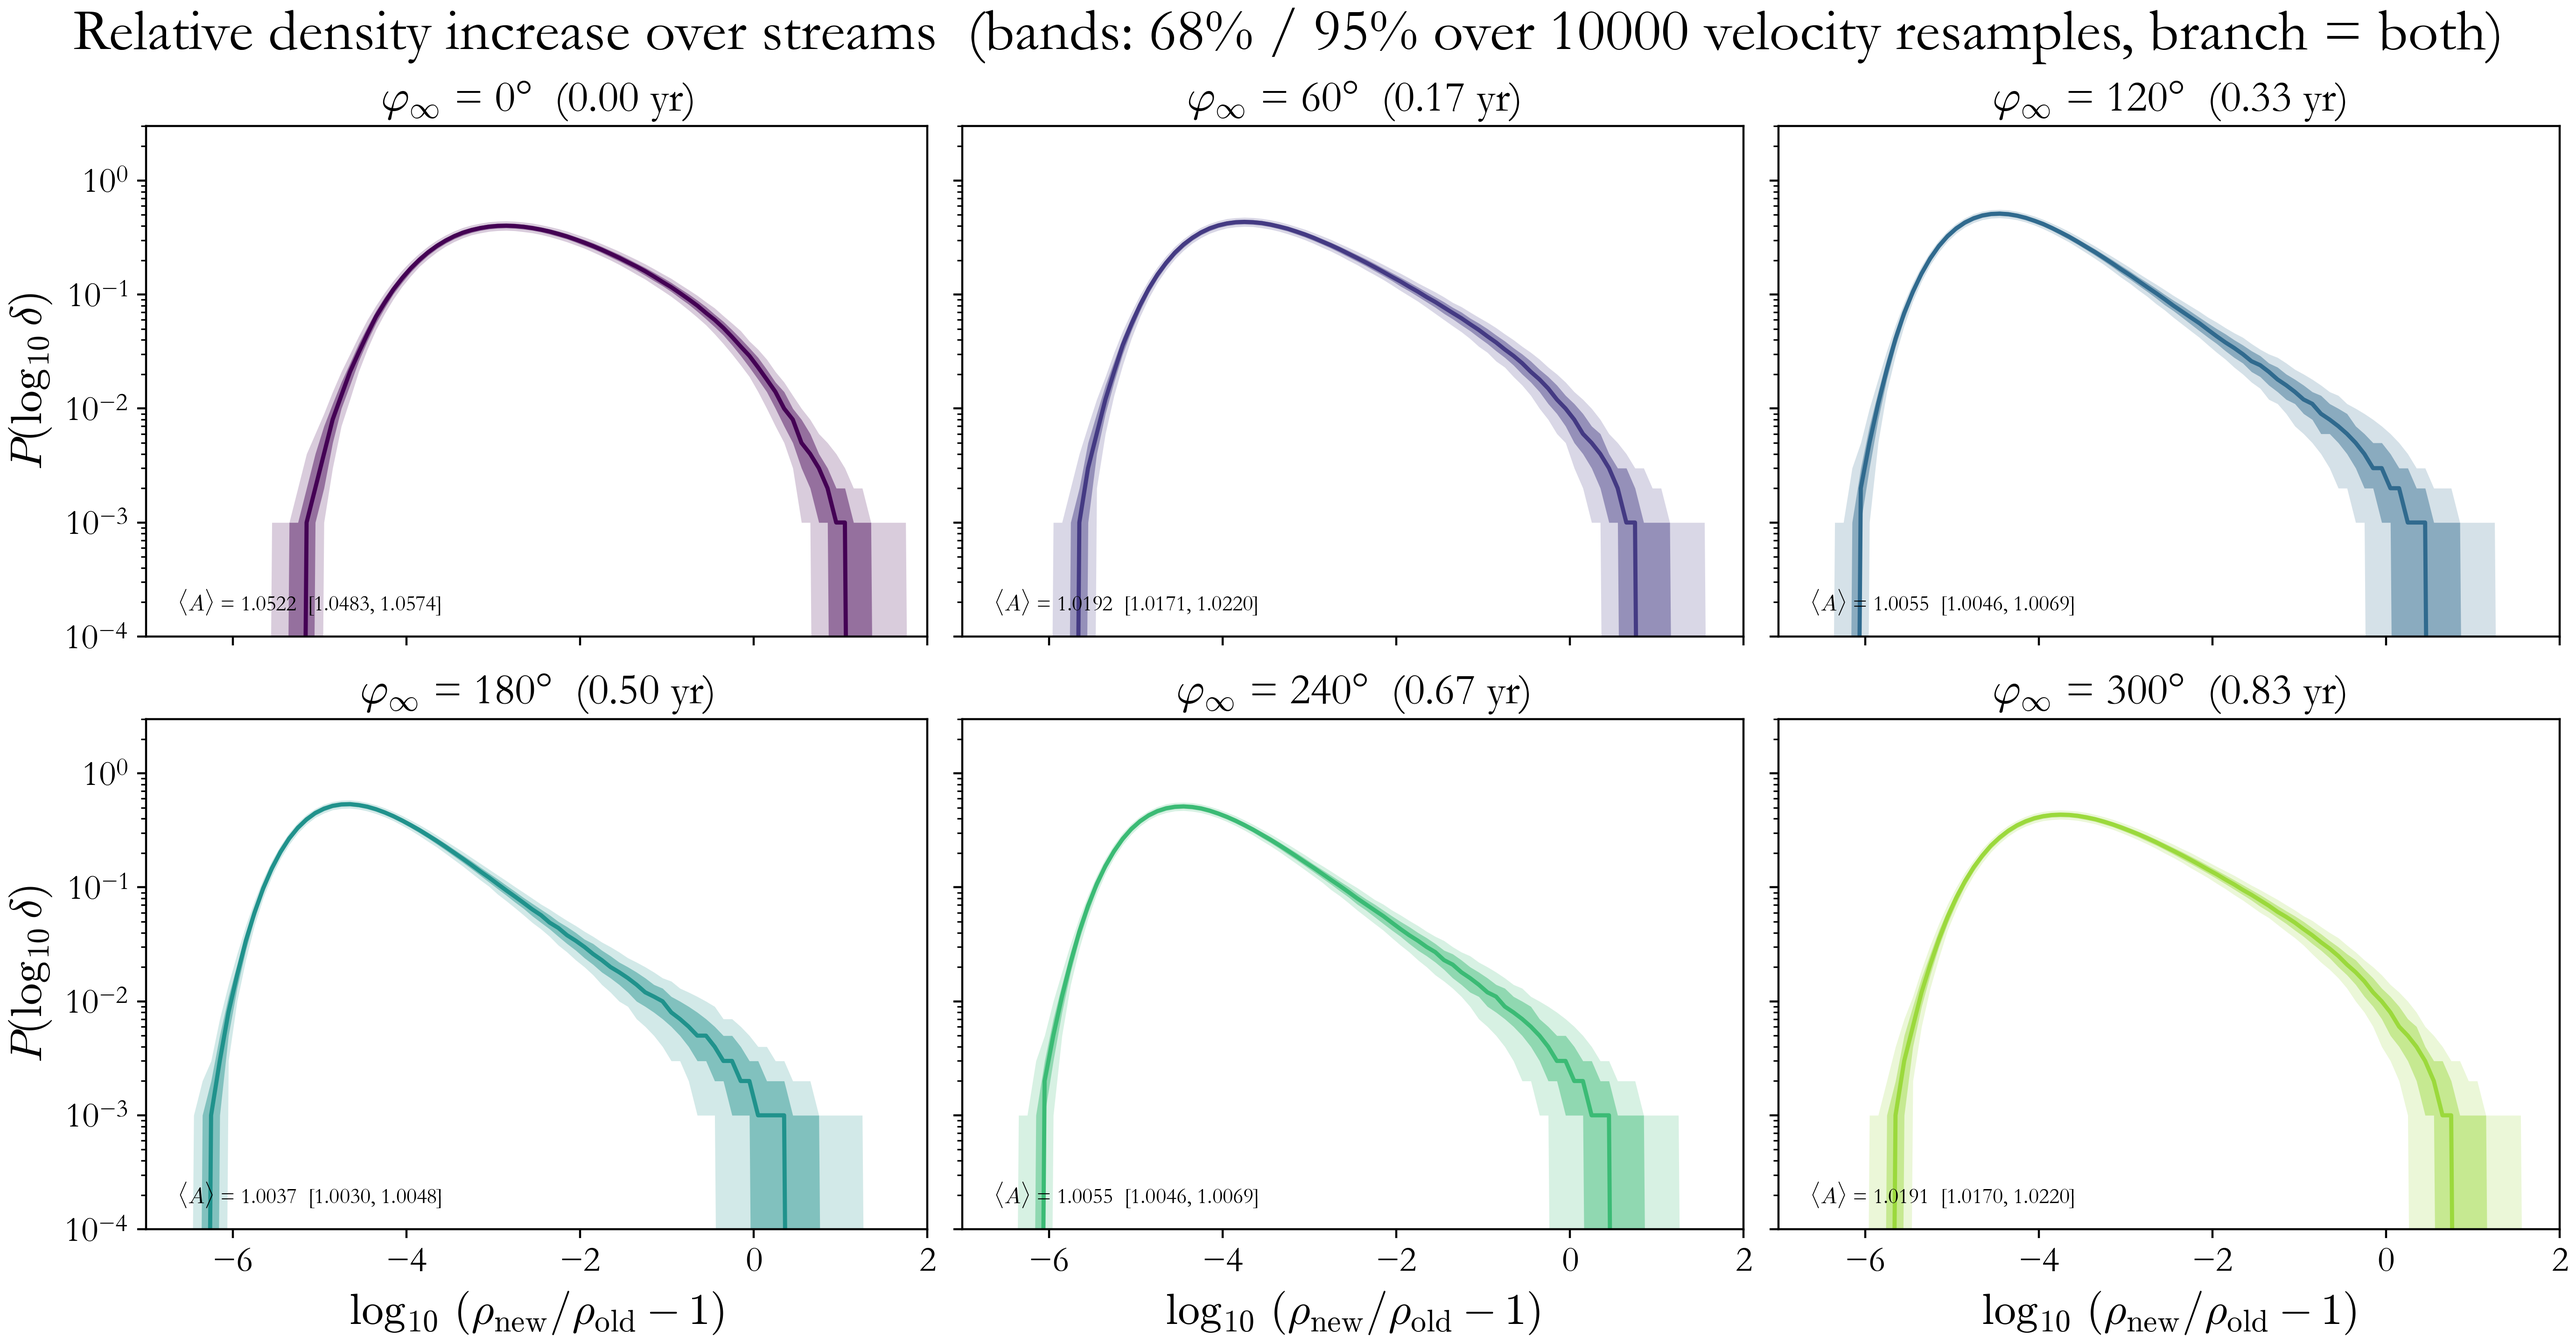
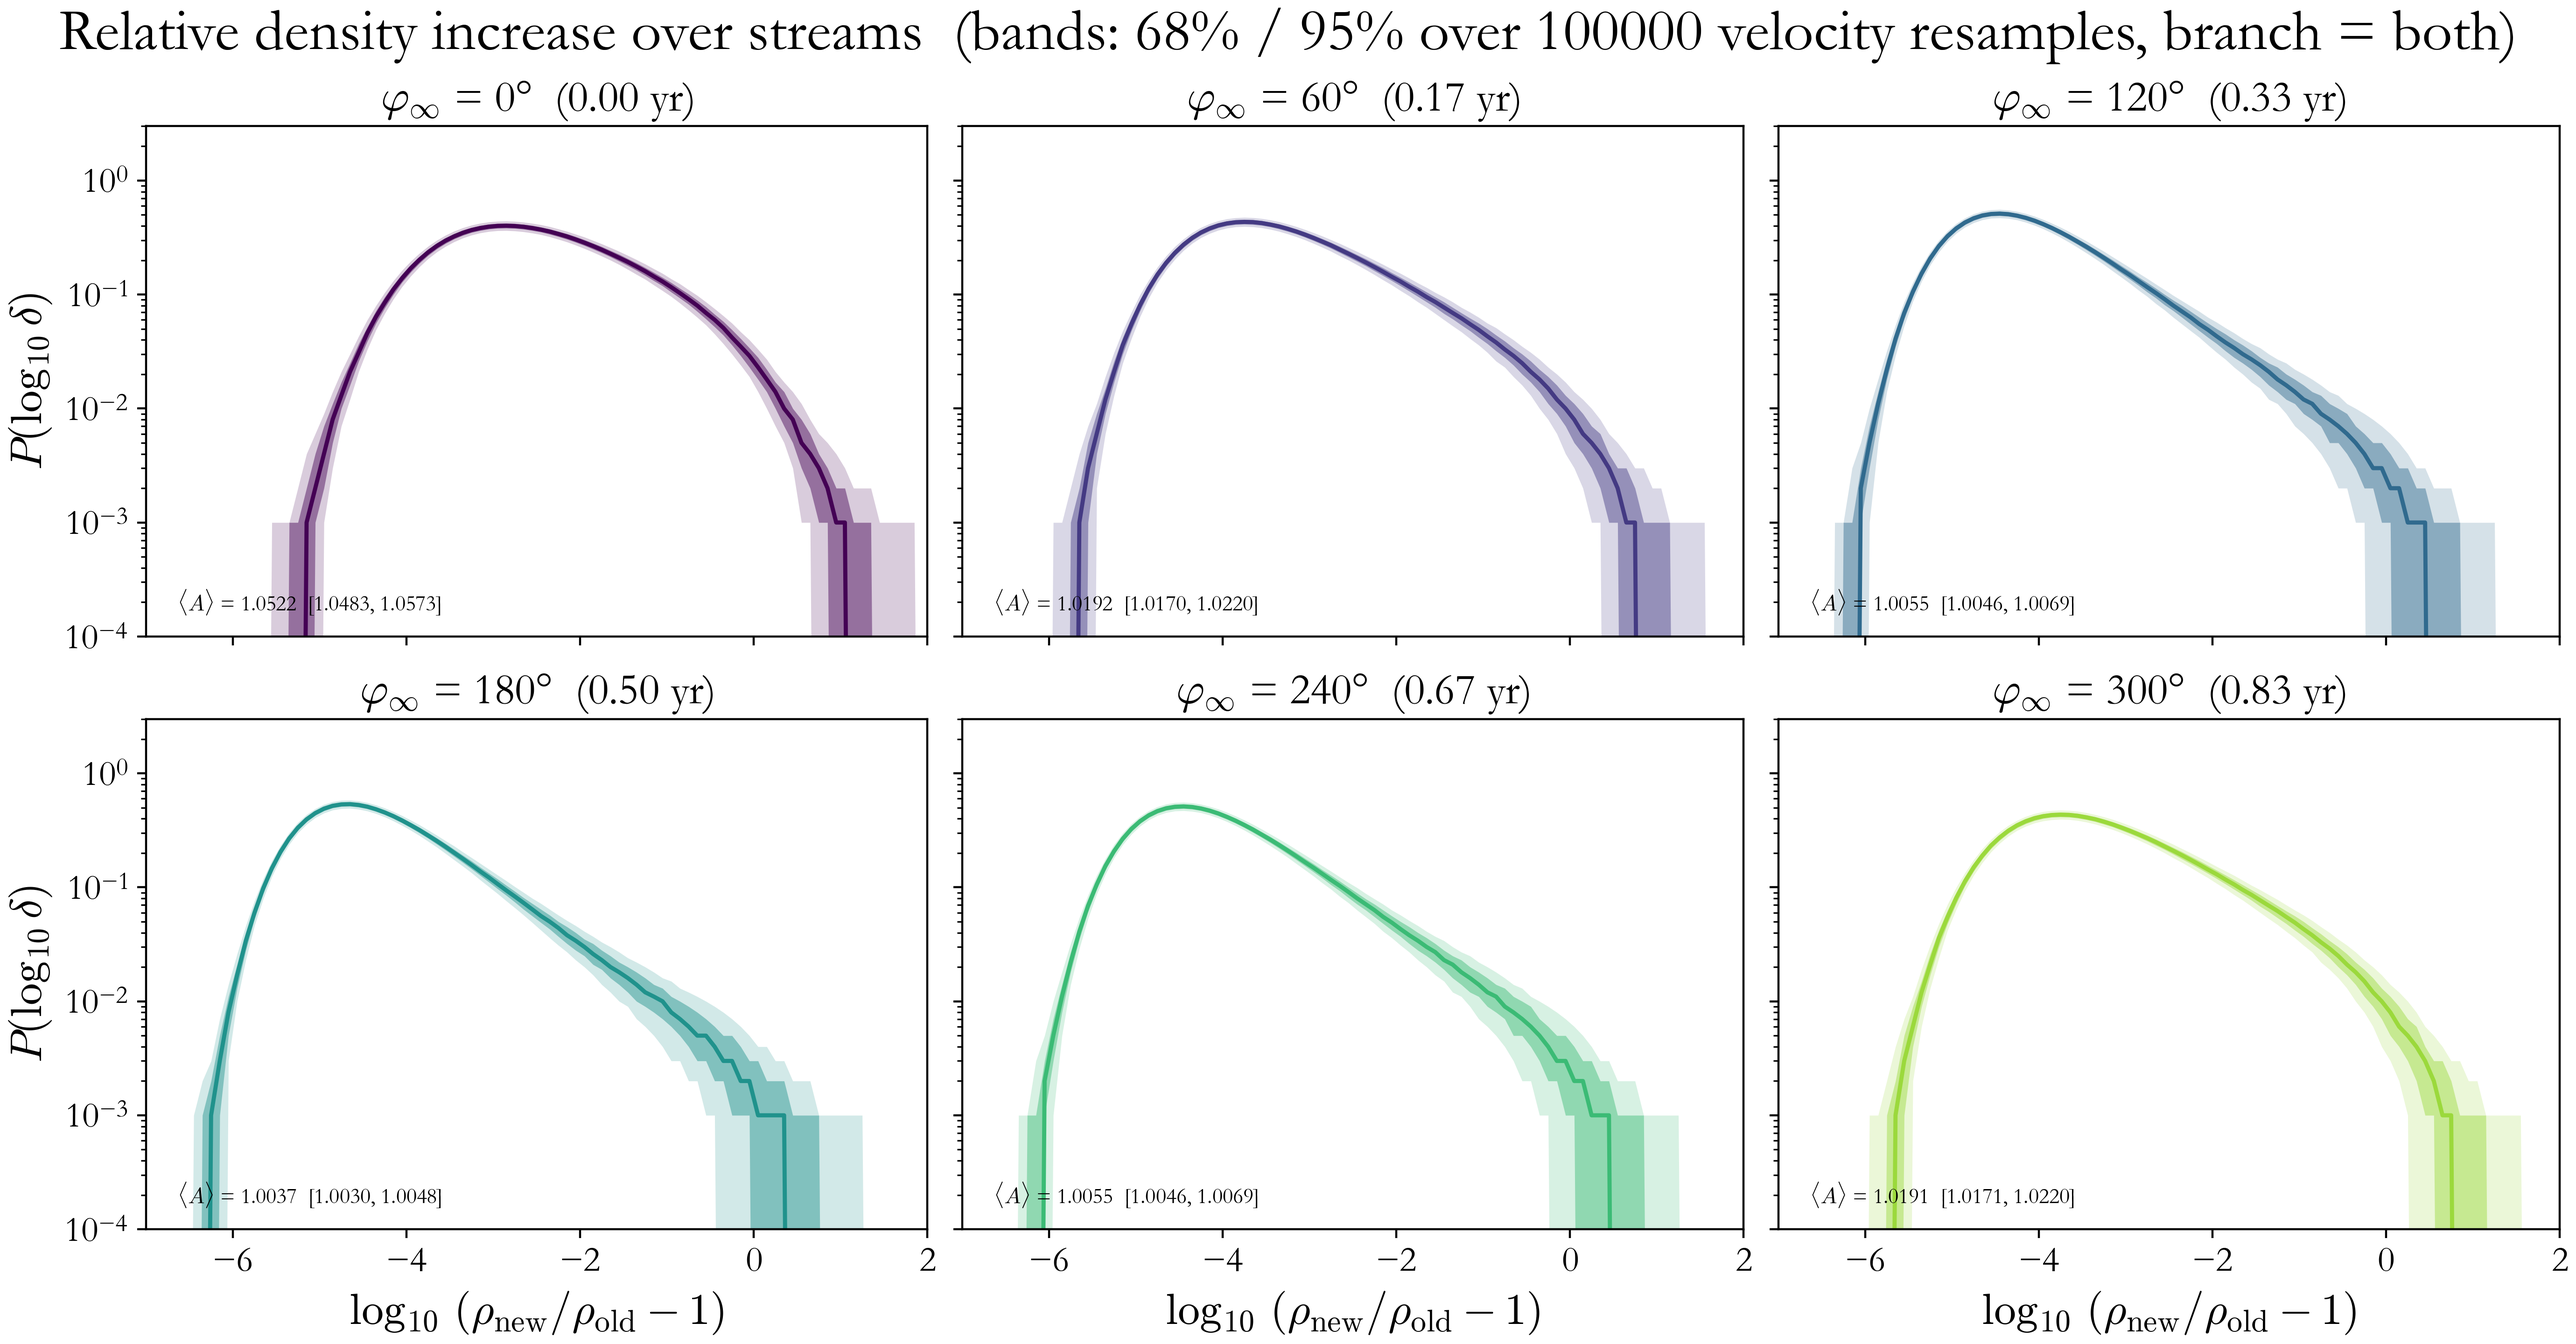
new plots

diff --git a/stream_enhancements.py b/stream_enhancements.py
@@ -223,6 +223,11 @@ def _draw_logrho(ax, res, i):
     h0 = res["hist_old"]
     col = _color(i, len(th))
     _band_std(ax, x, res["hist_new"][i].mean(axis=0), res["hist_new"][i].std(axis=0, ddof=1), col)
+    
+    mask = res["hist_new"][i].mean(axis=0) <= 1e-4
+    ma = x[mask] * res["hist_new"][i].mean(axis=0)[mask]  #np.trapezoid(x[mask], res["hist_new"][i].mean(axis=0)[mask])
+    print(np.sum(ma) / np.sum(res["hist_new"][i].mean(axis=0)[mask]))
+    
     ax.plot([], [], color=col, lw=1.6, label=r"with focusing (mean, $\pm1\sigma,\pm2\sigma$)")
     ax.plot(x, np.where(h0 > 0, h0, np.nan), "k", marker="+", lw=0.8, label="original", zorder=5)
     ax.axvline(res["lrho_max"], color="k", ls=":", lw=1.2, label="end of original distribution", zorder=4)
@@ -339,7 +344,7 @@ if __name__ == "__main__":
     os.makedirs("plots", exist_ok=True)
     _selftest()
     t0 = time.time()
-    res = run(n_streams=10000, n_repeats=10000, branch="both")
+    res = run(n_streams=10000, n_repeats=100000, branch="both")
     print(f"run time: {time.time() - t0:.1f} s")
     plot_logrho_single(res)                    # slide 1: phi_inf = 0 only
     plot_logrho_pdf(res)                       # slide 2: all angles
